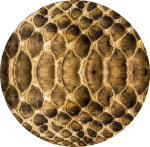
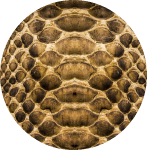
updates

diff --git a/Personal JavaFX Snake/src/com/SnakeGame/ImageBanks/GameImageBank.java b/Personal JavaFX Snake/src/com/SnakeGame/ImageBanks/GameImageBank.java
@@ -69,40 +69,8 @@ public class GameImageBank {
 	public static Image healthBarRed2;
 
 	public GameImageBank() {
-		  glowingCircle = ImageUtility.preCreateGlowingCircle(Color.RED,1, 500, 0.8, 0, 0);
-		// redHealthBar =
-		// ImageUtility.precreateSnapshot("red-HealthBar.png",400/GameLoader.ResolutionScaleX,
-		// 35/GameLoader.ResolutionScaleY);
-		// greenHealthBar =
-		// ImageUtility.precreateSnapshot("green-HealthBar.png",400/GameLoader.ResolutionScaleX,
-		// 35/GameLoader.ResolutionScaleY);
-		// scoreBoard =
-		// ImageUtility.precreateSnapshot("score-board.png",128/GameLoader.ResolutionScaleX,
-		// 41/GameLoader.ResolutionScaleY);
-		// "com/SnakeGame/Images/"
-		/**
-		 * Images used for the desert levels
-		 */
-		//////////////////////////////////////////////////////////////////////////////////////////////////////////////////////
-		// glowingImage = ImageUtility.preCreateGlowingImages("image.png",
-		////////////////////////////////////////////////////////////////////////////////////////////////////////////////////// Color.rgb(255,
-		////////////////////////////////////////////////////////////////////////////////////////////////////////////////////// 185,
-		////////////////////////////////////////////////////////////////////////////////////////////////////////////////////// 0,1.0),
-		////////////////////////////////////////////////////////////////////////////////////////////////////////////////////// 150,
-		////////////////////////////////////////////////////////////////////////////////////////////////////////////////////// 0.6,
-		////////////////////////////////////////////////////////////////////////////////////////////////////////////////////// 0,
-		////////////////////////////////////////////////////////////////////////////////////////////////////////////////////// 0);
-		// glowingCircle = ImageUtility.preCreateGlowingCircle(Color.ORANGE,1,
-		////////////////////////////////////////////////////////////////////////////////////////////////////////////////////// 500,
-		////////////////////////////////////////////////////////////////////////////////////////////////////////////////////// 0.8,
-		////////////////////////////////////////////////////////////////////////////////////////////////////////////////////// 0,
-		////////////////////////////////////////////////////////////////////////////////////////////////////////////////////// 0);
-		// glowingCircle2 =
-		////////////////////////////////////////////////////////////////////////////////////////////////////////////////////// ImageUtility.preCreateAlternateGlowingCircle(Color.ORANGE,1,
-		////////////////////////////////////////////////////////////////////////////////////////////////////////////////////// 500,
-		////////////////////////////////////////////////////////////////////////////////////////////////////////////////////// 0.8,
-		////////////////////////////////////////////////////////////////////////////////////////////////////////////////////// 0,
-		////////////////////////////////////////////////////////////////////////////////////////////////////////////////////// 0);
+		glowingCircle = ImageUtility.preCreateGlowingCircle(Color.RED,1, 500, 0.8, 0, 0);
+
 		snakeHead = ImageUtility.precreatedLightedImage("desert-snake-head3.png", Settings.GlOBAL_ILLUMINATION,
 				Settings.SPECULAR_MAP, 111 / GameLoader.ResolutionScaleX, 97 / GameLoader.ResolutionScaleY);// new
 																											// Image("snake-head.png");
@@ -119,7 +87,7 @@ public class GameImageBank {
 		snakeSkull = ImageUtility.precreatedLightedAndShadedSnake("snake-skull.png", Settings.GlOBAL_ILLUMINATION,
 				Settings.SPECULAR_MAP, 111 / GameLoader.ResolutionScaleX, 97 / GameLoader.ResolutionScaleY);// new
 																											// Image("snakeBody.png");
-		snakeBody = ImageUtility.precreatedLightedImage("snake-skin1.5.png", Settings.GlOBAL_ILLUMINATION - 0.2,
+		snakeBody = ImageUtility.precreatedLightedImage("snake-skin1.png", Settings.GlOBAL_ILLUMINATION - 0.2,
 				Settings.SPECULAR_MAP, 197 / GameLoader.ResolutionScaleX, 176 / GameLoader.ResolutionScaleY);// new
 																												// Image("snakeBody.png");
 		snakeTail = ImageUtility.precreatedLightedAndShadedSnake("desert-snake-tail2.png", Settings.GlOBAL_ILLUMINATION,
@@ -134,10 +102,10 @@ public class GameImageBank {
 		fruit = ImageUtility.precreatedLightedAndShadedImage("apple.png", Settings.GlOBAL_ILLUMINATION, 0,
 				150 / GameLoader.ResolutionScaleX, 192 / GameLoader.ResolutionScaleY); // new
 																						// Image("dirt.png");
-		fruit2 = ImageUtility.preCreateShadedCircle(Color.RED, Settings.GlOBAL_ILLUMINATION, Settings.SPECULAR_MAP,
+		fruit2 = ImageUtility.preCreateShadedCircle(Color.RED, Settings.GlOBAL_ILLUMINATION, Settings.SPECULAR_MAP+0.4,
 				10 / GameLoader.ResolutionScaleX, 10 / GameLoader.ResolutionScaleY);
 		fruit3 = ImageUtility.preCreateShadedGlowingCircle(Color.RED, Settings.GlOBAL_ILLUMINATION,
-				Settings.SPECULAR_MAP, 10 / GameLoader.ResolutionScaleX, 10 / GameLoader.ResolutionScaleY);
+				Settings.SPECULAR_MAP + 0.4, 10 / GameLoader.ResolutionScaleX, 10 / GameLoader.ResolutionScaleY);
 		snakeSphere = new Circle(Settings.SECTION_SIZE * 1.4, new ImagePattern(snakeHead));
 		slither = new Circle(Settings.SECTION_SIZE * 1.4, new ImagePattern(snakeHead));
 		////////////////////////////////////////////////////////////////////////////////////////////////////////////////
@@ -185,10 +153,7 @@ public class GameImageBank {
 		healthBarRed1 = new Image(ImageUtility.loadResource("healthBarRed2.png"));
 		healthBarRed2 = new Image(ImageUtility.loadResource("healthBar2Red2.png"));
 
-		// redHealthBar = new Image("com/SnakeGame/Images/red-HealthBar.png");
-		// greenHealthBar = new
-		// Image("com/SnakeGame/Images/green-HealthBar.png");
-		// scoreBoard = new Image("com/SnakeGame/Images/score-board.png");
+
 		/////////////////////////////////////////////////////////////////////////////////////////////////////////////////////////////
 	}
 
